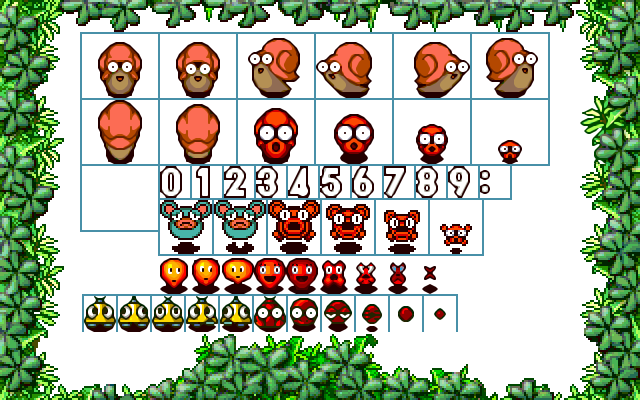
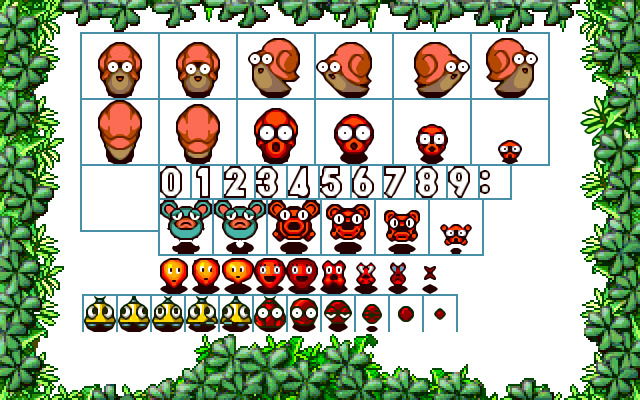
Add correct monsters on Micro level.

Changed region(s): [[0.25, 0.51, 0.5938, 0.6], [0.6875, 0.54, 0.75, 0.63], [0.5938, 0.54, 0.6562, 0.6]]

diff --git a/UWP/Assets.cs b/UWP/Assets.cs
@@ -330,6 +330,7 @@ namespace MrBoom
 
             var monster2walk = loadImageStripe(imgFeuille, 79, 128, 16, 19, 3, 0);
             var monster3walk = loadImageStripe(imgFeuille, 42, 148, 16, 18, 5, 1);
+            var monster6walk = loadImageStripe(imgFeuille, 80, 100, 26, 27, 2, 1);
 
             var snail =
                 new AnimatedImage(
@@ -377,7 +378,10 @@ namespace MrBoom
                                 new AnimatedImage(
                                     loadImageStripe(imgPause, 3 * 24 * 3, 158, 23, 21, 2, 1),
                                     loadImageStripe(imgPause, 0, 179, 23, 21, 1, 1)),
-                                loadImageStripe(imgPause, 24, 179, 23, 21, 8, 1))
+                                loadImageStripe(imgPause, 24, 179, 23, 21, 8, 1)),
+
+                    loadMonster(monster6walk, monster6walk, monster6walk, monster6walk,
+                                loadImageStripe(imgFeuille, 134, 100, 26, 27, 4, 1))
                 };
 
             return new Assets()

diff --git a/UWP/Map.cs b/UWP/Map.cs
@@ -22,6 +22,7 @@ namespace MrBoom
             public int WaitAfterTurn { get; }
             public int Type { get; }
             public int LivesCount { get; }
+            public bool IsSlowStart;
 
             public MonsterData(int type, int waitAfterTurn, int livesCount)
             {
@@ -384,7 +385,7 @@ namespace MrBoom
                 PowerUps = new PowerUpData[] { },
                 Monsters = new MonsterData[]
                 {
-                    new MonsterData(1, 30, 3),
+                    new MonsterData(6, 0, 3) { IsSlowStart = true },
                 },
                 Final = new byte[]
                 {

diff --git a/UWP/Monster.cs b/UWP/Monster.cs
@@ -15,7 +15,16 @@ namespace MrBoom
         {
             this.monsterData = monsterData;
             this.livesCount = monsterData.LivesCount - 1;
-            this.Direction = (Directions)Terrain.Random.Next(1, 5);
+
+            if (monsterData.IsSlowStart)
+            {
+                wait = 120;
+                unplugin = 120;
+            }
+            else
+            {
+                this.Direction = (Directions)Terrain.Random.Next(1, 5);
+            }
         }
 
         public override void Update()

diff --git a/UWP/GameScreen.cs b/UWP/GameScreen.cs
@@ -22,7 +22,12 @@ namespace MrBoom
             this.assets = assets;
             this.game = game;
 
-            terrain = new Terrain(game.LevelRandom.Next(Map.Maps.Length), assets);
+#if true
+            int levelIndex = game.LevelRandom.Next(Map.Maps.Length);
+#else
+            int levelIndex = 7;
+#endif
+            terrain = new Terrain(levelIndex, assets);
 
             game.NextSong();
 
